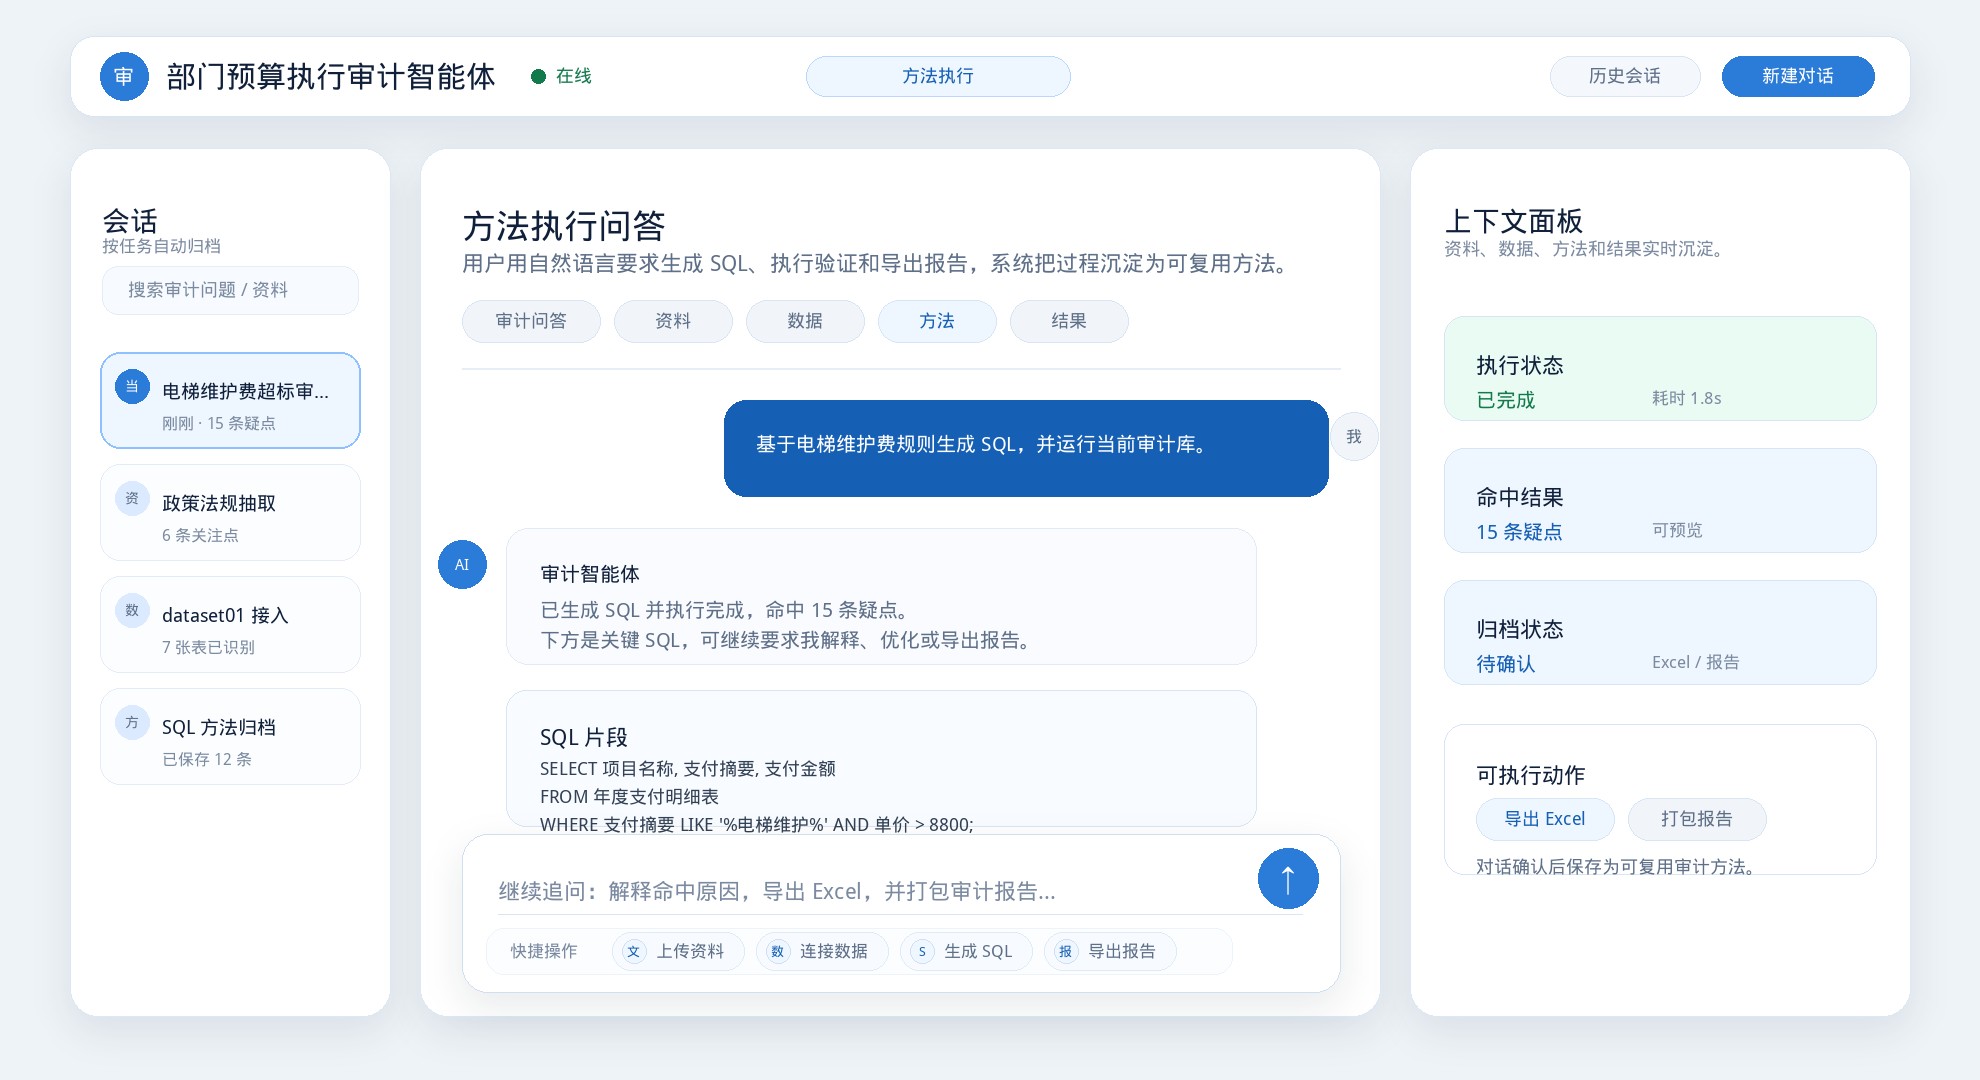
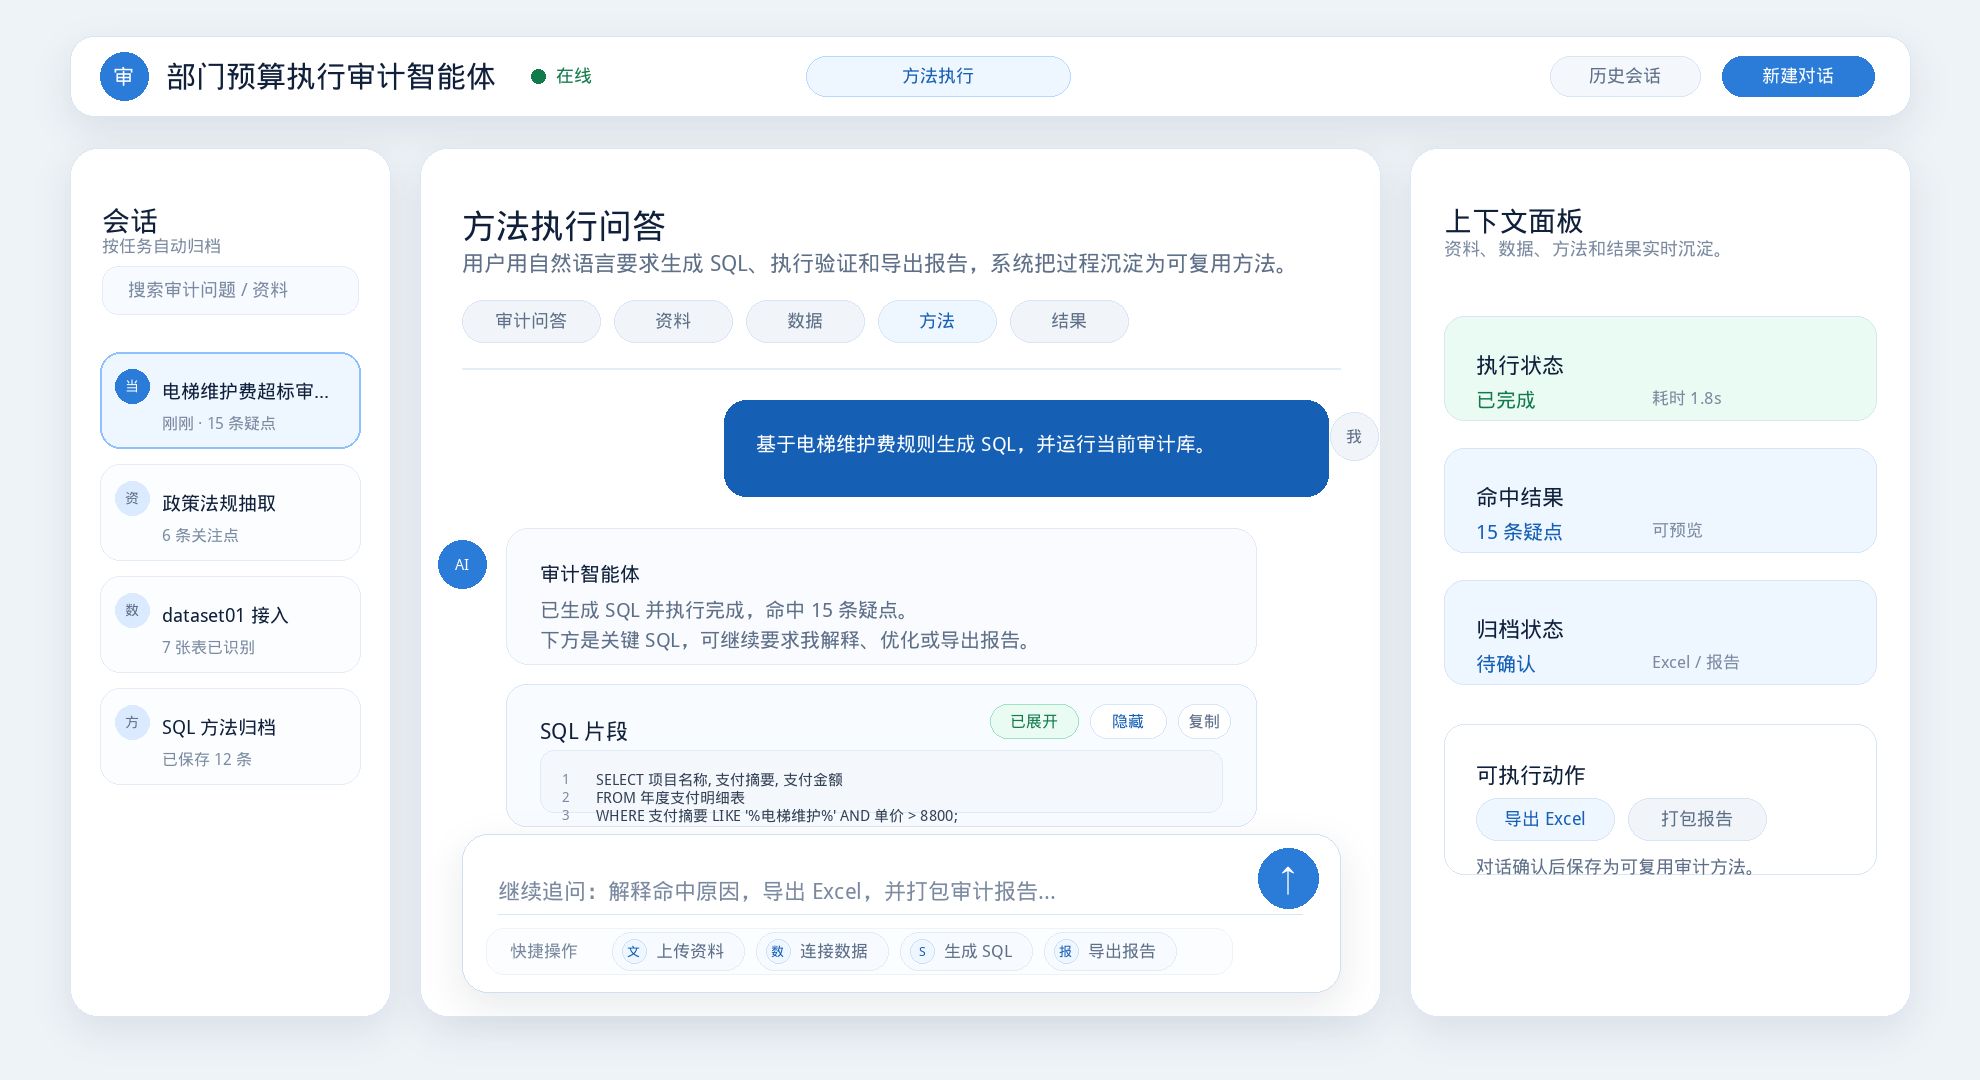
Add collapsible SQL card controls

Changed region(s): [[0.2773, 0.6722, 0.4929, 0.7944], [0.5545, 0.6417, 0.6162, 0.6722], [0.4929, 0.6417, 0.5237, 0.6722]]

diff --git a/scripts/generate_design_assets.py b/scripts/generate_design_assets.py
@@ -346,15 +346,24 @@ def method_workflow() -> None:
         ["已生成 SQL 并执行完成，命中 15 条疑点。", "下方是关键 SQL，可继续要求我解释、优化或导出报告。"],
         h=136,
     )
-    c.rounded((506, 690, 1256, 826), 20, "#f8fbff", COLORS["line"])
-    c.text((540, 724), "SQL 片段", 22, COLORS["text"])
+    c.rounded((506, 684, 1256, 826), 20, "#f8fbff", COLORS["line"])
+    c.text((540, 718), "SQL 片段", 22, COLORS["text"])
+    c.rounded((990, 704, 1078, 738), 17, COLORS["green"], COLORS["green_line"])
+    c.text((1034, 721), "已展开", 16, COLORS["green_text"], "mm")
+    c.rounded((1090, 704, 1166, 738), 17, COLORS["surface"], COLORS["line"])
+    c.text((1128, 721), "隐藏", 16, COLORS["blue_dark"], "mm")
+    c.rounded((1178, 704, 1230, 738), 17, COLORS["surface"], COLORS["line"])
+    c.text((1204, 721), "复制", 16, COLORS["muted"], "mm")
+    c.rounded((540, 750, 1222, 812), 14, "#f4f8fc", "#e1ebf5")
     sql = [
         "SELECT 项目名称, 支付摘要, 支付金额",
         "FROM 年度支付明细表",
         "WHERE 支付摘要 LIKE '%电梯维护%' AND 单价 > 8800;",
     ]
     for idx, line in enumerate(sql):
-        c.text((540, 758 + idx * 28), line, 18, "#334155", max_width=670)
+        y = 770 + idx * 18
+        c.text((562, y), str(idx + 1), 14, COLORS["subtle"], max_width=24)
+        c.text((596, y), line, 15, "#334155", max_width=585)
     input_box(c, "继续追问：解释命中原因，导出 Excel，并打包审计报告...")
 
     side_stat(c, 316, "执行状态", "已完成", "耗时 1.8s", COLORS["green"])

diff --git a/docs/guided-access-design.md b/docs/guided-access-design.md
@@ -80,7 +80,7 @@
 | 消息气泡 | 主要内容按自然段换行，长结果进入卡片或详情抽屉 |
 | 右侧状态卡 | 标题 1 行，描述 1 到 2 行，超出省略 |
 | 输入框占位 | 控制在 1 行，说明放入快捷操作或提示卡 |
-| SQL / 表字段 | 使用代码卡片承载，长行省略并支持展开 |
+| SQL / 表字段 | 使用代码卡片承载，默认展示为可展开状态，支持隐藏/展开、复制和长行省略 |
 | 快捷按钮 | 使用短动词短语，例如“上传资料”“连接数据”“生成 SQL” |
 
 ## 视觉建议
